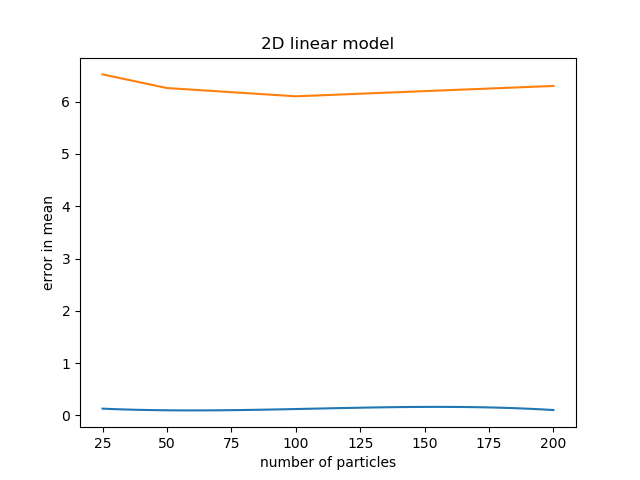
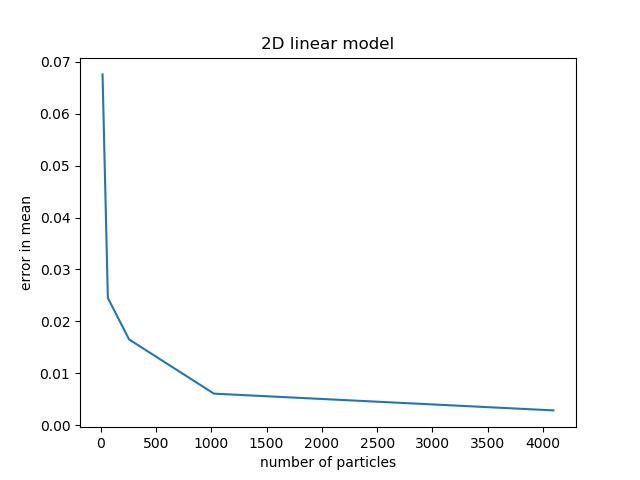
upf_ex 2.0

diff --git a/python/upf_ex.py b/python/upf_ex.py
@@ -8,11 +8,11 @@ import plot
 @ut.timer
 def experiment(model, particle_counts, num_exprs, alpha, beta, kappa, resampling_threshold, titles = None, file_paths = None, exact_mean = None):
     # compute average error for each particle count
-    avg_abs_err, err_in_mean = [], []
+    rmse, err_in_mean = [], []
     for particle_count in particle_counts:
         error, err_m = 0.0, 0.0
         for expr in range(num_exprs):
-            print('\rusing {:04} particle(s): experiment# {:03d}'.format(particle_count, expr), end = '')
+            print('\rusing {:04} particles: experiment# {:03d}'.format(particle_count, expr), end = '')
             # Generate paths
             hidden_path = model.hidden_state.generate_path()
             observed_path = model.observation.generate_path(hidden_path)
@@ -20,20 +20,20 @@ def experiment(model, particle_counts, num_exprs, alpha, beta, kappa, resampling
             pf = fl.GlobalSamplingUPF(model, particle_count = particle_count, alpha = alpha, beta = beta, kappa = kappa)
             pf.update(observed_path , threshold_factor = resampling_threshold, method = 'mean')
             pf.compute_error(hidden_path)
-            error += np.linalg.norm(pf.error[-1])
+            error += pf.rmse
             if exact_mean is not None:
                 err_m += np.linalg.norm(exact_mean(observed_path[1:]) - pf.computed_trajectory[-1])
-        avg_abs_err.append(error/num_exprs)
+        rmse.append(error/num_exprs)
         if exact_mean is not None:
             err_in_mean.append(err_m/num_exprs)
 
-    print(avg_abs_err)
+    print()
     # plot average error vs particle_count
     x = np.linspace(min(particle_counts), max(particle_counts), 100)
-    y = scipy.interpolate.make_interp_spline(particle_counts, avg_abs_err)(x)
-    plt.plot(x, y)
+    #y = scipy.interpolate.make_interp_spline(particle_counts, rmse)(x)
+    plt.plot(particle_counts, rmse)
     plt.xlabel('number of particles')
-    plt.ylabel('average absolute error')
+    plt.ylabel('average rmse')
     if titles is not None:
         plt.title(titles[0])
     if file_paths is not None:
@@ -41,7 +41,8 @@ def experiment(model, particle_counts, num_exprs, alpha, beta, kappa, resampling
 
     # plot error in mean vs particle_count
     if exact_mean is not None:
-        y = scipy.interpolate.make_interp_spline(particle_counts, err_in_mean)(x)
+        plt.clf()
+        #y = scipy.interpolate.make_interp_spline(particle_counts, err_in_mean)(x)
         plt.plot(particle_counts, err_in_mean)
         plt.xlabel('number of particles')
         plt.ylabel('error in mean')
@@ -49,4 +50,4 @@ def experiment(model, particle_counts, num_exprs, alpha, beta, kappa, resampling
             plt.title(titles[1])
         if file_paths is not None and len(file_paths) > 0:
             plt.savefig(file_paths[1])
-    return avg_abs_err, err_in_mean
+    return rmse, err_in_mean

diff --git a/python/expr1.py b/python/expr1.py
@@ -5,9 +5,9 @@ import warnings
 warnings.filterwarnings("ignore")
 # create model to feed the filters
 model = model1.model()
-exact_mean = lambda observed_path: model1.update(observed_path)[0]
+exact_mean = lambda observed_path: model1.update(observed_path)[0][-1]
 # run experiments
-upf_ex.experiment(model = model, particle_counts = [25, 50, 100, 200], num_exprs = 20, alpha = 1.0, beta = 0.0, kappa = 2.0,\
+upf_ex.experiment(model = model, particle_counts = [16, 64, 256, 1024, 4096], num_exprs = 20, alpha = 1.0, beta = 0.0, kappa = 2.0,\
                 resampling_threshold = 0.1, titles = ['2D linear model']*2,\
-                file_paths = ['../images/gsupf_results/linear_err_vs_num_particles.png', '../images/gsupf_results/linear_err_in_mean_vs_num_particles.png'],\
+                file_paths = ['../images/gsupf_results/linear_rmse_vs_num_particles.png', '../images/gsupf_results/linear_err_in_mean_vs_num_particles.png'],\
                 exact_mean = exact_mean)

diff --git a/python/utility.py b/python/utility.py
@@ -11,7 +11,7 @@ def timer(func):
 		start = time()
 		val = func(*args,**kwargs)
 		end = time()
-		print('Time taken by function {} is {} seconds'.format(func.__name__, end-start))
+		print('Time taken by {} is {} seconds'.format(func.__name__, end-start))
 		return val
 	return new_func
 

diff --git a/python/model2.py b/python/model2.py
@@ -1,0 +1,8 @@
+import simulate as sm
+import filter as fl
+import numpy as np
+import scipy
+
+"""
+A 1D non-linear problem
+"""
